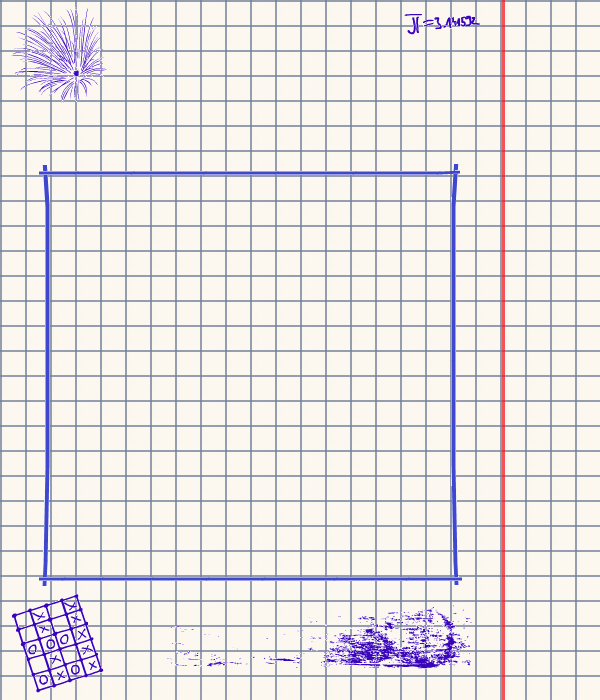
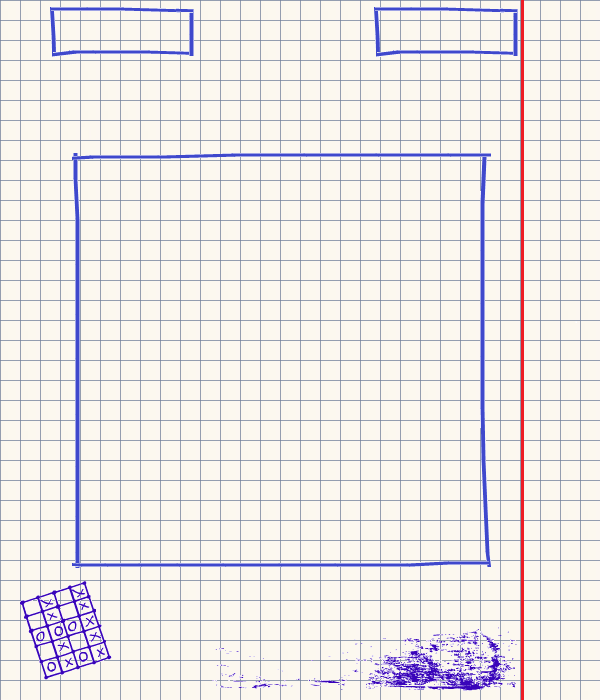
XO 16.10

Changed region(s): [[0.0, 0.0, 1.0, 1.0]]

diff --git a/src/main/webapp/js/XO.js b/src/main/webapp/js/XO.js
@@ -1,28 +1,29 @@
 var end = false;
 
 function createServer() {
-	$('#text').text('Чекайте на підключення');
+	$('#outText').text('Чекайте на підключення');
 	var inter1 = setInterval(check, 1000);
 	function check() {
 		$.post("XOAGetClient.html", function(response) {
 			if (response != "") {
 				clearInterval(inter1);
-				$('#text').text('Клієнт ' + response.name + ' підключився');
+				$('#outText').text('Клієнт ' + response.name + ' підключився');
+				$('#opName').text(response.name);
 			}
 		});
 	}
 }
 
-function connect(id) {
-	$.post("XOGameClient.html", {
-		id : id
-	}, function(resp) {
-		$('#text').text('Чекайте на хід суперника');
-		$('#table').remove();
-		document.write(resp);
-	});
-	checker();
-}
+//function connect(id) {
+//	$.post("XOGameClient.html", {
+//		serverID : id
+//	}, function(resp) {
+//		$('#outText').text('Чекайте на хід суперника');
+//		$('#table').remove();
+//		document.write(resp);
+//	});
+//	checker();
+//}
 
 function put(img) {
 	if (end)
@@ -33,7 +34,7 @@ function put(img) {
 		if (response == -5) {
 			setImg(img, status);
 			end = true;
-			$('#text').text('Ви перемогли !!!');
+			$('#outText').text('Ви перемогли !!!');
 			// location.href = "XO.html";
 		} else if (response == -3) {
 		} else if (response == -2) {
@@ -43,7 +44,7 @@ function put(img) {
 		} else {
 			status = response;
 			setImg(img, response);
-			$('#text').text('Чекайте на хід суперника');
+			$('#outText').text('Чекайте на хід суперника');
 			checker();
 		}
 	});
@@ -57,12 +58,12 @@ function checker() {
 				clearInterval(inter);
 				change();
 				end = true;
-				$('#text').text('Ви програли !!!');
+				$('#outText').text('Ви програли !!!');
 				// location.href = "XO.html";
 			} else if (response != 0) {
 				clearInterval(inter);
 				change();
-				$('#text').text('Ваш хід');
+				$('#outText').text('Ваш хід');
 			}
 		});
 	}

diff --git a/src/main/webapp/css/XO.css b/src/main/webapp/css/XO.css
@@ -1,4 +1,4 @@
-#back {
+#paperList {
 	background-image: url('../images/XO/list.png');
 	background-repeat: no-repeat;
 	height: 840px;
@@ -6,14 +6,26 @@
 	margin: -8px auto;
 }
 
-#text {
+#outText {
 	position: absolute;
 	margin-top: 70px;
 	margin-left: 160px;
 }
 
+#myName {
+	position: absolute;
+	margin-top: 15px;
+	margin-left: 100px;
+}
+
+#opName {
+	position: absolute;
+	margin-top: 15px;
+	margin-left: 420px;
+}
+
 #XO {
 	position: absolute;
-	margin-top: 175px;
-	margin-left: 50px;
+	margin-top: 160px;
+	margin-left: 80px;
 }

diff --git a/src/main/java/epam/ph/sg/controllers/XOController.java b/src/main/java/epam/ph/sg/controllers/XOController.java
@@ -8,6 +8,7 @@ import org.springframework.web.bind.annotation.RequestMapping;
 import org.springframework.web.bind.annotation.RequestMethod;
 import org.springframework.web.bind.annotation.RequestParam;
 import org.springframework.web.bind.annotation.ResponseBody;
+import org.springframework.web.servlet.ModelAndView;
 
 import epam.ph.sg.models.User;
 import epam.ph.sg.models.xo.XOBox;
@@ -49,15 +50,15 @@ public class XOController {
 	}
 
 	@RequestMapping(value = "/XOGameClient.html", method = RequestMethod.POST)
-	public String connect(@RequestParam("id") String serverID,
+	public ModelAndView connect(@RequestParam("serverID") String serverID,
 			HttpSession session) {
 		User user = (User) session.getAttribute("user");
 		if (user == null) {
-			return "Login";
+			return new ModelAndView("Login");
 		} else {
 			XOPlayer xo = XOConnector.connect(serverID, user);
 			session.setAttribute("xo", xo);
-			return "XO/XOClient";
+			return new ModelAndView("XO/XOClient");
 		}
 	}
 	

diff --git a/src/main/java/epam/ph/sg/models/xo/XO.java b/src/main/java/epam/ph/sg/models/xo/XO.java
@@ -16,6 +16,6 @@ public class XO {
 	public static final int WIN = -5;
 	public static final int TO_WIN = 5;
 
-	public static final int X_SIZE = 16;
-	public static final int Y_SIZE = 16;
+	public static final int X_SIZE = 20;
+	public static final int Y_SIZE = 20;
 }
